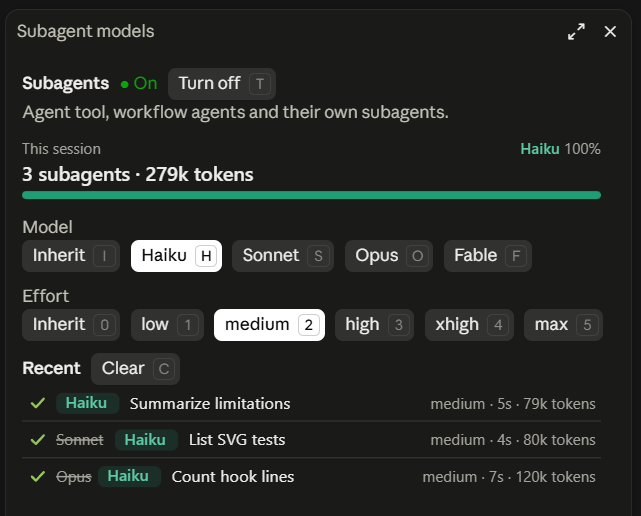
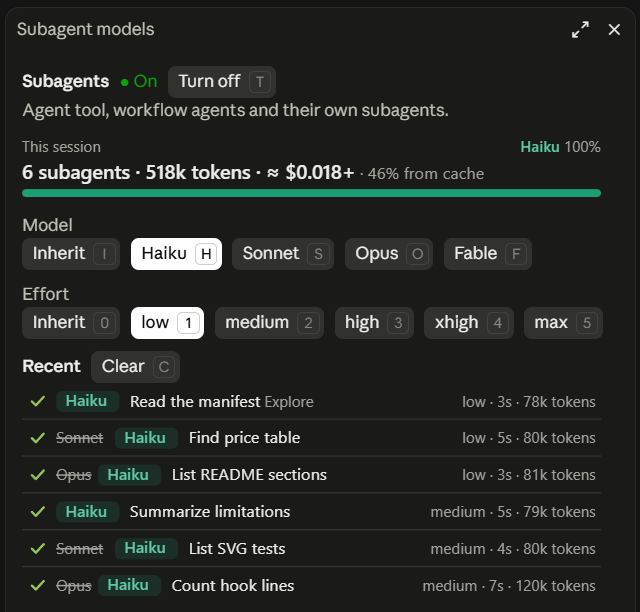
Replace the README screenshot with one showing the price estimate

diff --git a/README.md b/README.md
@@ -7,9 +7,9 @@ A Claude Code mod (terminal and Desktop) that sets **the model and effort of eve
 
 Pick Haiku and **every** subagent runs on Haiku, whatever Claude or the workflow script asks for. The main conversation is never changed.
 
-![The Subagent models pane in Claude Desktop: every subagent set to Haiku at medium effort, and three finished subagents](docs/pane.png)
+![The Subagent models pane in Claude Desktop: every subagent set to Haiku at low effort, the session's tokens, estimated price and cache share, and six finished subagents](docs/pane.png)
 
-*The pane in Claude Desktop. Two of these subagents asked for Sonnet and Opus; both ran on Haiku, as the struck-through names show.*
+*The pane in Claude Desktop. Four of these subagents asked for Sonnet or Opus; all of them ran on Haiku, as the struck-through names show.*
 
 ## Install
 
